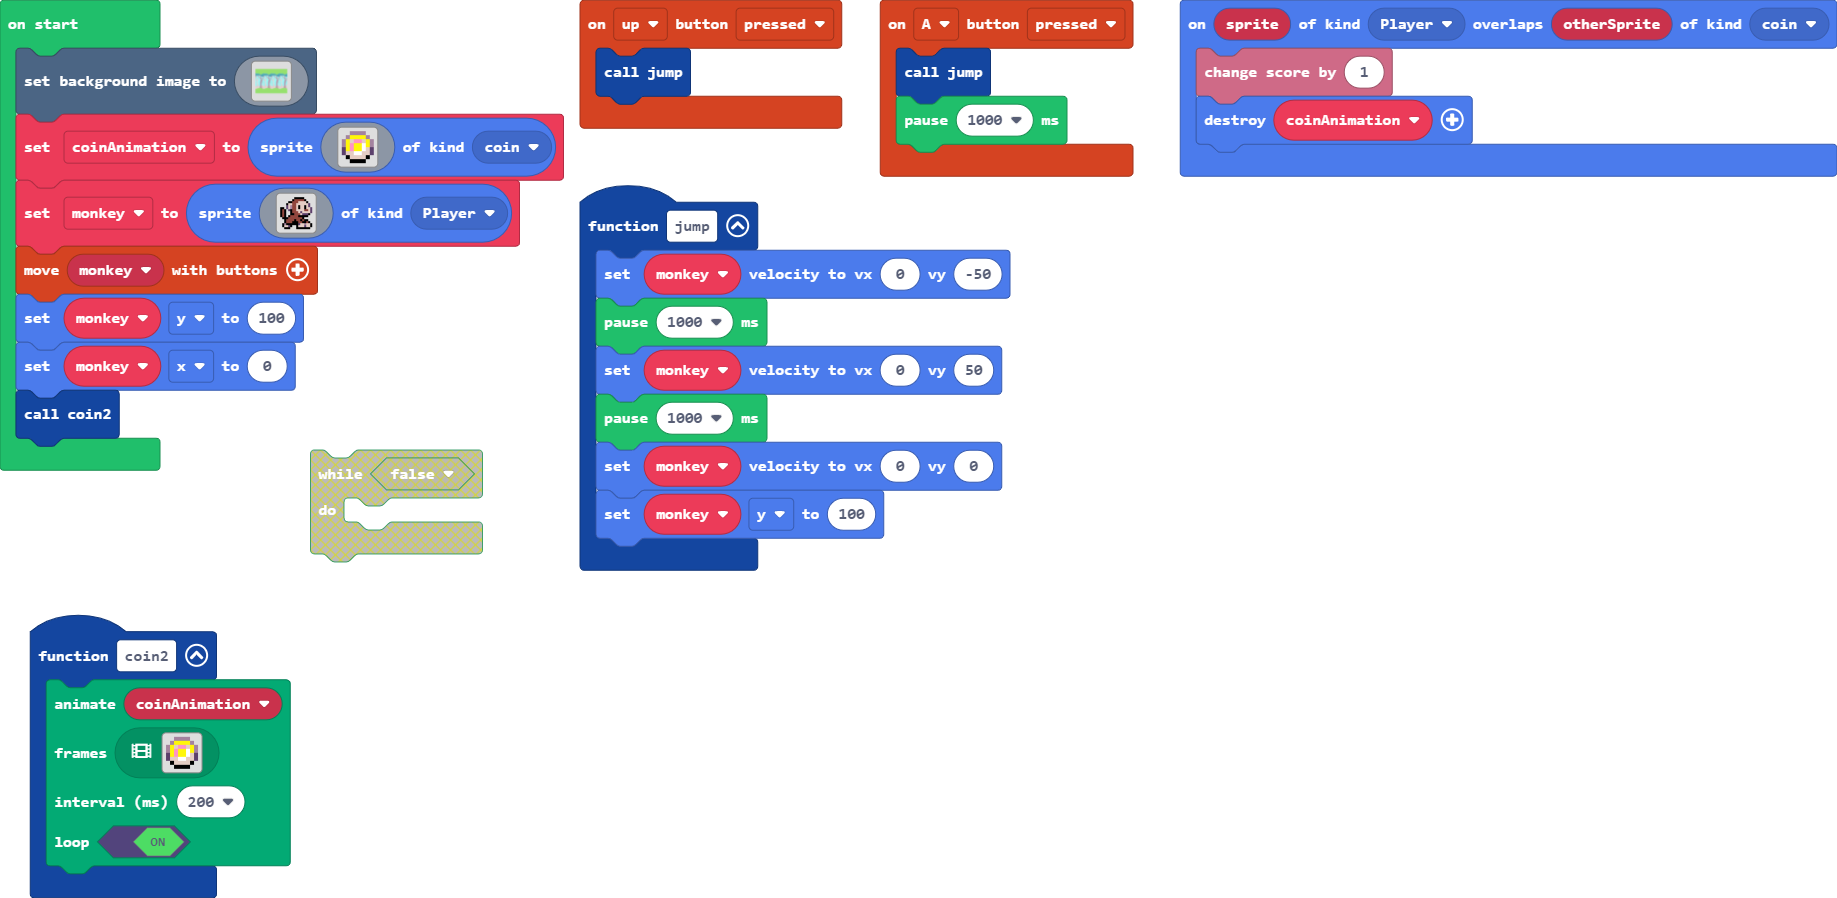
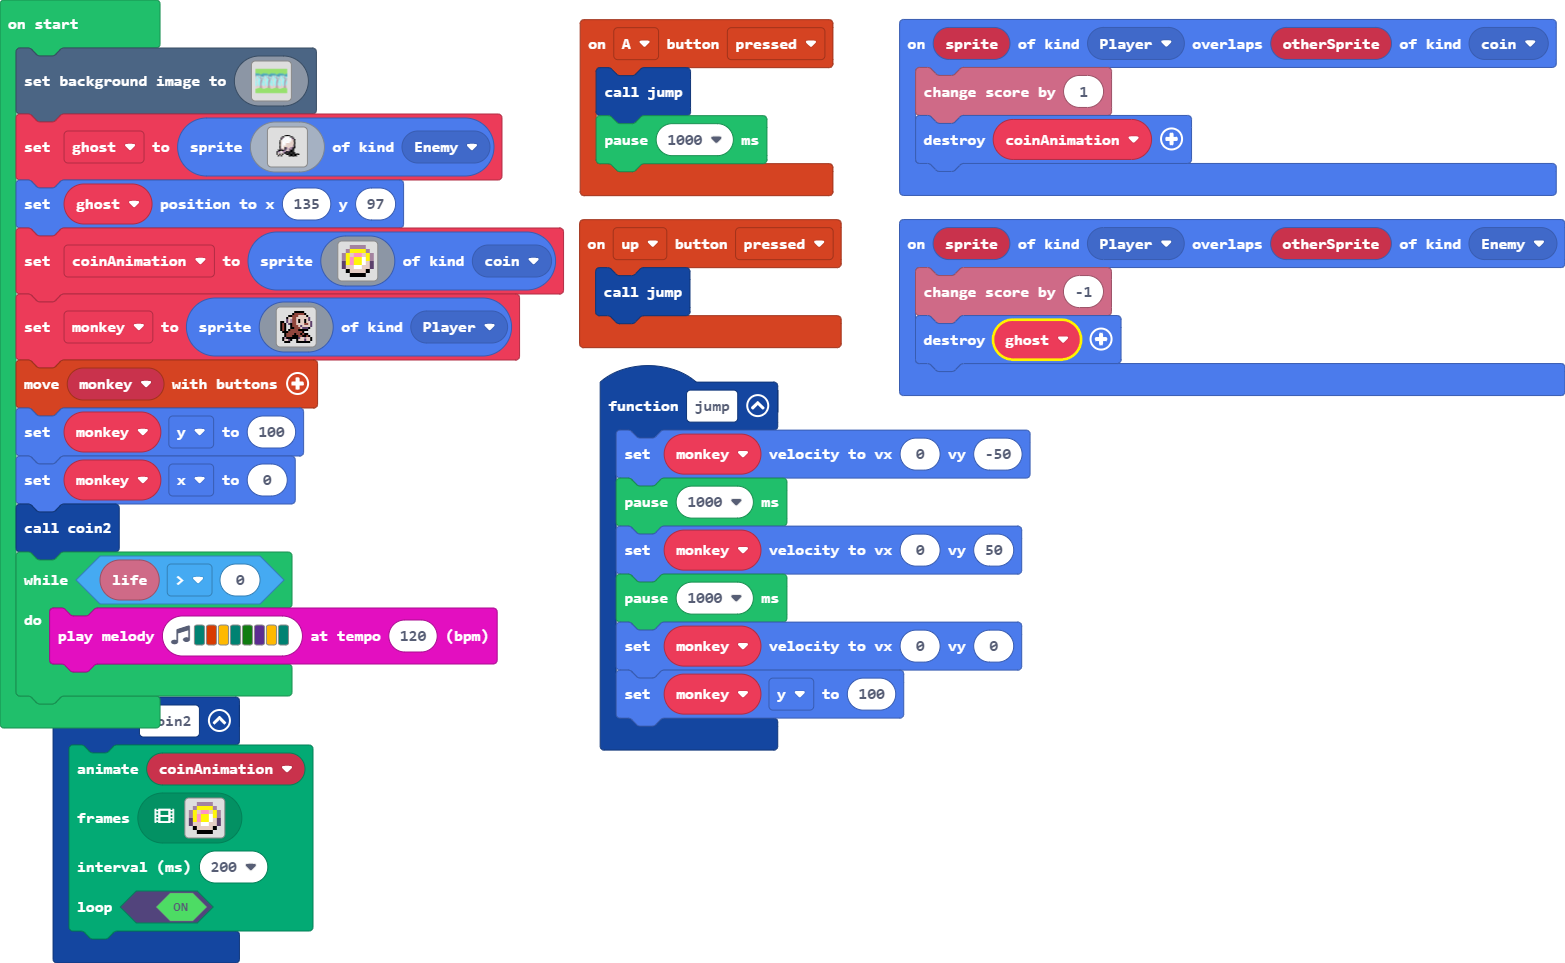
Update main.blocks, main.ts

diff --git a/main.ts b/main.ts
@@ -82,8 +82,13 @@ function jump () {
     monkey.setVelocity(0, 0)
     monkey.y = 100
 }
+sprites.onOverlap(SpriteKind.Player, SpriteKind.Enemy, function (sprite, otherSprite) {
+    info.changeScoreBy(-1)
+    ghost.destroy()
+})
 let monkey: Sprite = null
 let coinAnimation: Sprite = null
+let ghost: Sprite = null
 scene.setBackgroundImage(img`
     7777777777777777777777777777777777777777777777777777777777777777777777777777777777777777777777777777777777777777777777777777777777777777777777777777777777777777
     7777777777777777777777777777777777777777777777777777777777777777777777777777777777777777777777777777777777777777777777777777777777777777777777777777777777777777
@@ -206,6 +211,33 @@ scene.setBackgroundImage(img`
     7777777777777777777777777777777777777777777777777777777777777777777777777777777777777777777777777777777777777777777777777777777777777777777777777777777777777777
     7777777777777777777777777777777777777777777777777777777777777777777777777777777777777777777777777777777777777777777777777777777777777777777777777777777777777777
     `)
+ghost = sprites.create(img`
+    ........................
+    ........................
+    ........................
+    ..........ffff..........
+    ........ff1111ff........
+    .......fb111111bf.......
+    .......f1111111dbf......
+    ......fd1111111ddf......
+    ......fd111111dddf......
+    ......fd111ddddddf......
+    ......fd111ddddddf......
+    ......fd1dddddddbf......
+    ......fd1dfbddbbff......
+    ......fbddfcdbbcf.......
+    .....ffffccddbfff.......
+    ....fcb1bbbfcffff.......
+    ....f1b1dcffffffff......
+    ....fdfdf..ffffffffff...
+    .....f.f.....ffffff.....
+    ........................
+    ........................
+    ........................
+    ........................
+    ........................
+    `, SpriteKind.Enemy)
+ghost.setPosition(135, 97)
 coinAnimation = sprites.create(img`
     . . b b b b . . 
     . b 5 5 5 5 b . 
@@ -238,3 +270,6 @@ controller.moveSprite(monkey)
 monkey.y = 100
 monkey.x = 0
 coin2()
+while (info.life() > 0) {
+    music.playMelody("F B A F G D A F ", 120)
+}
